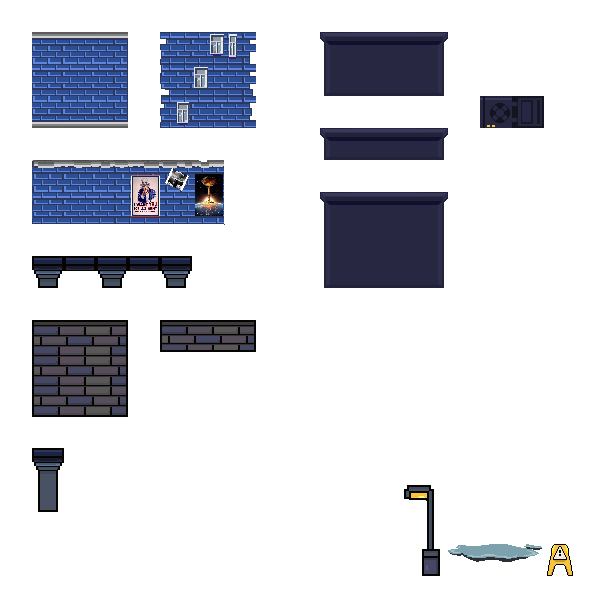
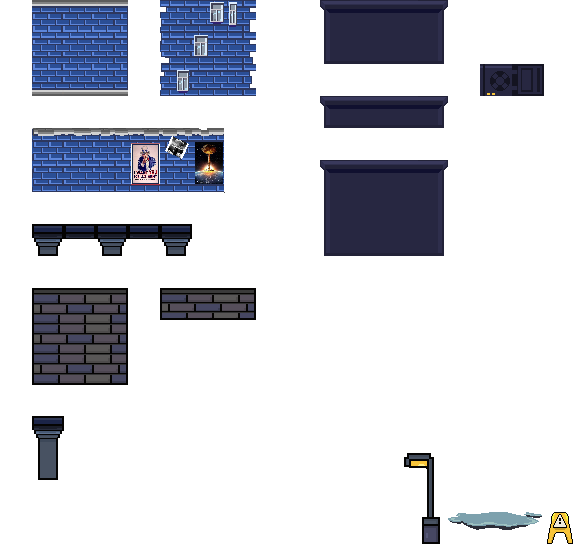
it just works

diff --git a/game/gameLoop/map.py b/game/gameLoop/map.py
@@ -50,9 +50,9 @@ class Map:
         # 31 = level label
         tileInSpriteMap = {0: [0, 0],
                            1: [32, 0], 2: [64, 0], 3: [96, 0], 4: [32, 32], 5: [64, 32], 6: [96, 32],
-                           7: [32, 64], 8: [64, 64], 9: [96, 64], 10: [0, 128], 11: [32, 128], 12: [64, 128],
-                           13: [96, 128], 14: [128, 128], 15: [160, 128], 16: [0, 160], 17: [32, 160],
-                           18: [64, 160], 19: [96, 160], 20: [128, 160], 21: [160, 160],
+                           7: [32, 64], 8: [64, 64], 9: [96, 64], 10: [32, 128], 11: [64, 128], 12: [96, 128],
+                           13: [128, 128], 14: [160, 128], 15: [192, 128], 16: [32, 160], 17: [64, 160],
+                           18: [96, 160], 19: [128, 160], 20: [160, 160], 21: [192, 160],
                            22: [160, 0], 23: [160, 32], 24: [160, 64], 25: [224, 0], 26: [224, 32], 27: [224, 64],
                            28: [192, 0], 29: [192, 32], 30: [192, 64], 31: [544, 0]}
         with open(file, "r") as f:
